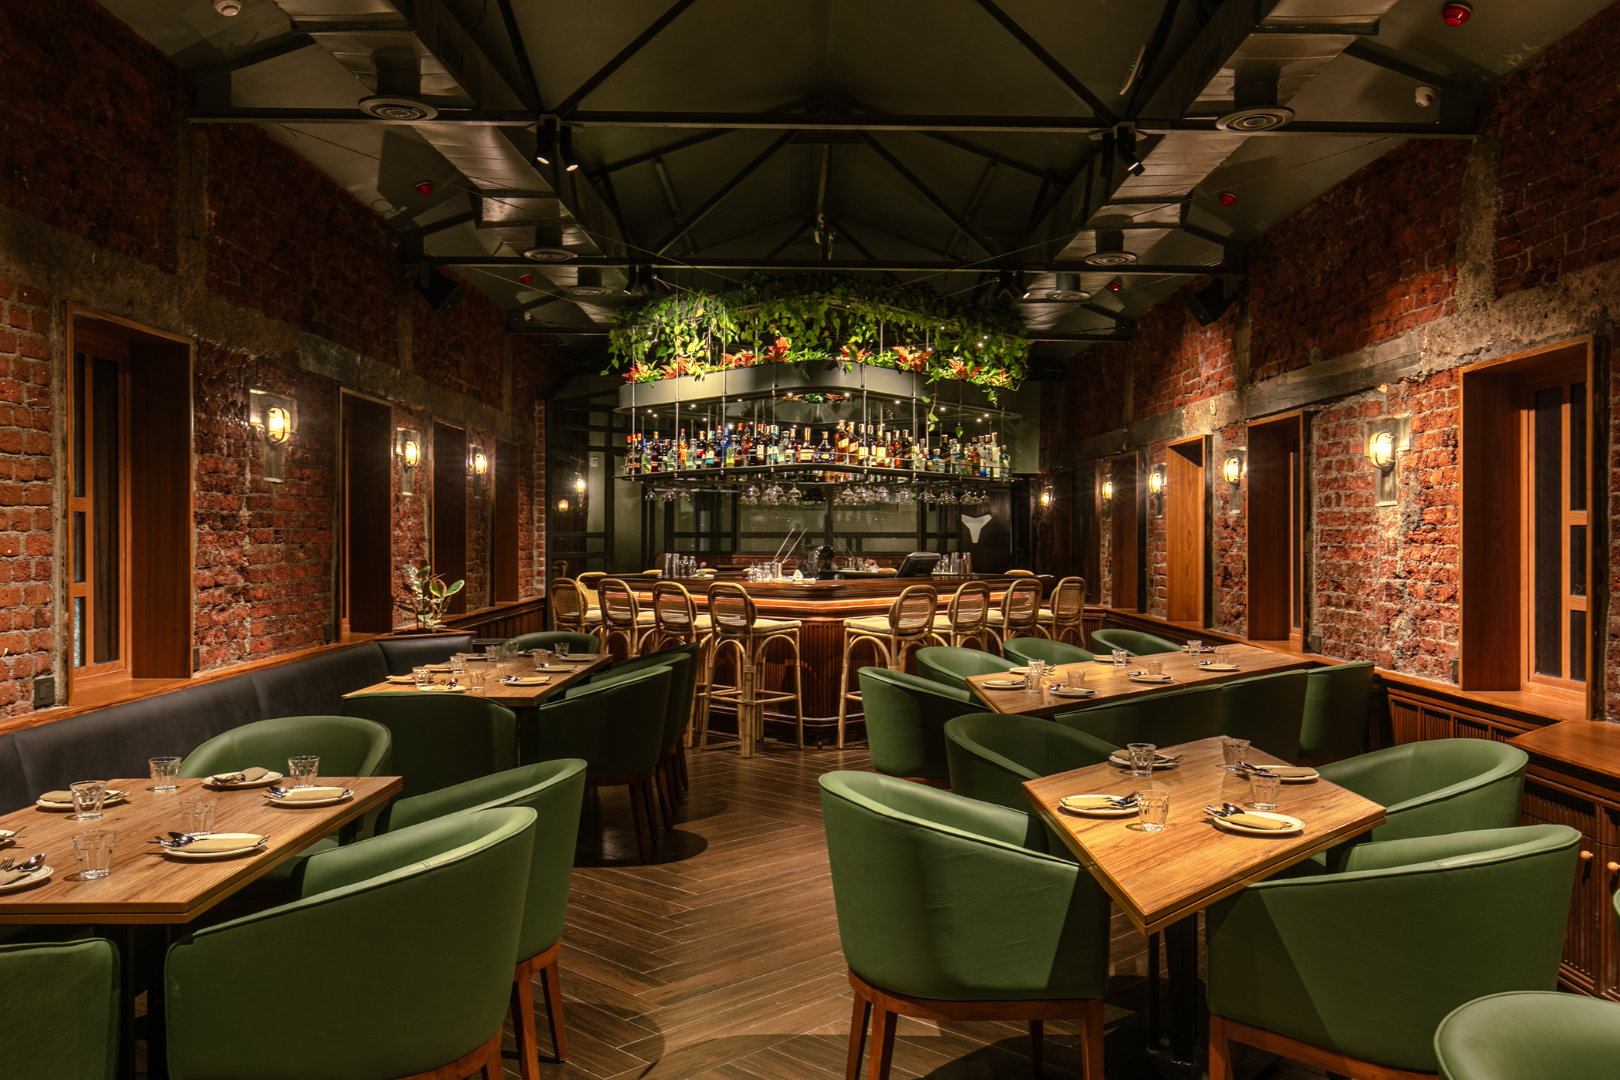
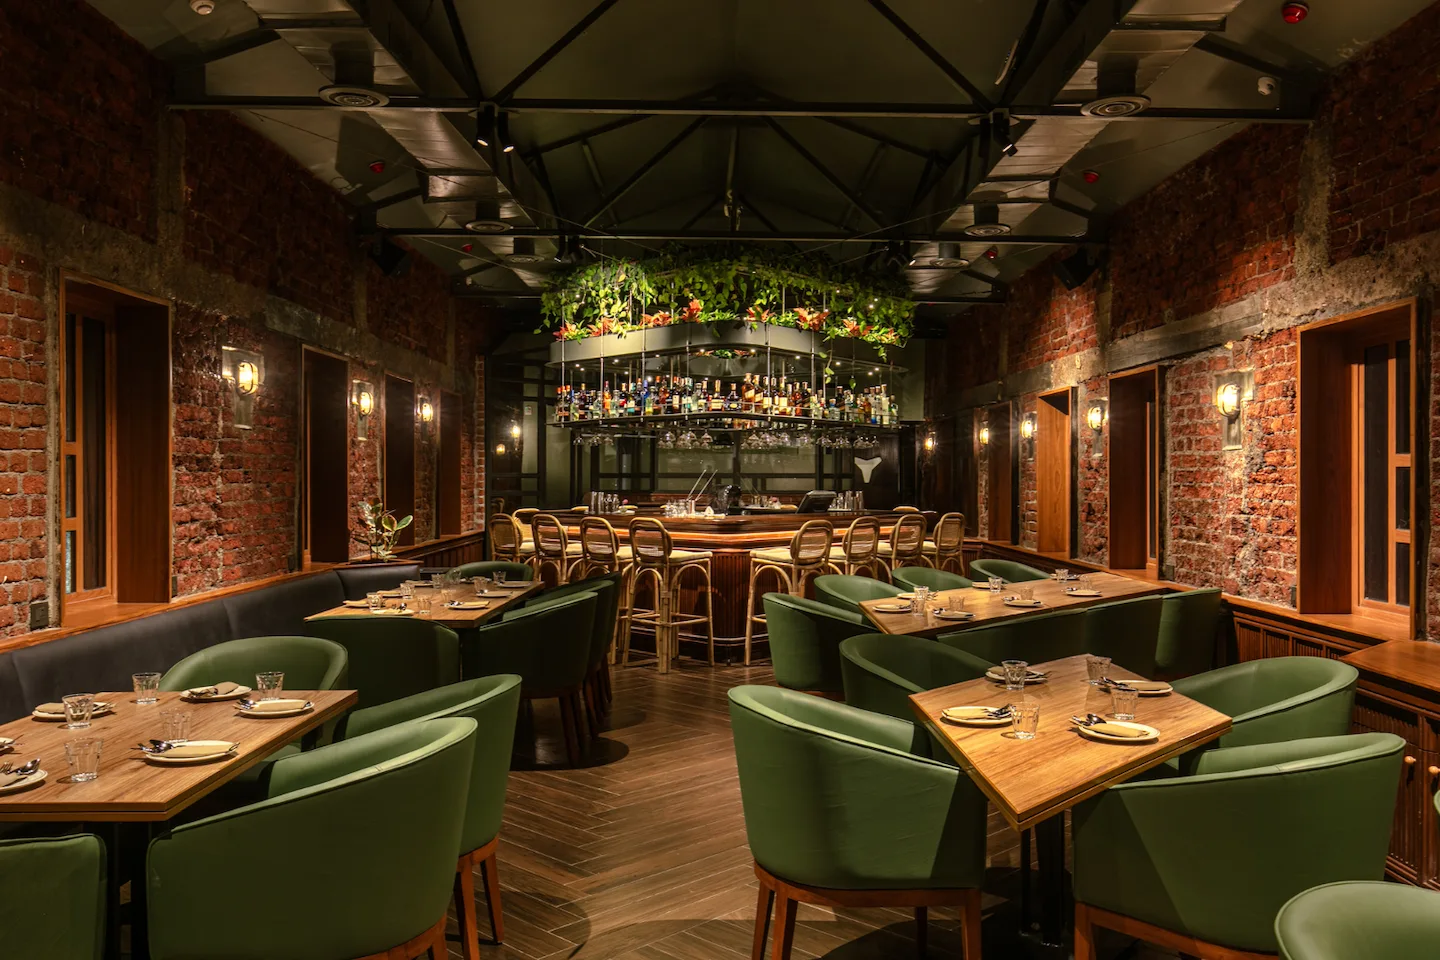
changing  image types to webp

diff --git a/client/src/components/Images.tsx b/client/src/components/Images.tsx
@@ -19,13 +19,13 @@ import starRating from "../assets/images/defaultImages/star.png";
 import reserveImg1 from "../assets/images/defaultImages/reserve1.png";
 import reserveImg2 from "../assets/images/defaultImages/reserve2.png";
 import reserveImg3 from "../assets/images/defaultImages/reserve3.png";
-import chiefImg1 from "../assets/images/chiefsImage/chief1.png";
+import chiefImg1 from "../assets/images/chiefsImage/chief1.webp";
 import chiefImg2 from "../assets/images/chiefsImage/chief2.png";
-import chiefImg3 from "../assets/images/chiefsImage/chief3.png";
+import chiefImg3 from "../assets/images/chiefsImage/chief3.webp";
 import chiefImg4 from "../assets/images/chiefsImage/chief4.jpg";
 import chiefImg5 from "../assets/images/chiefsImage/chief5.jpg";
-import chiefImg6 from "../assets/images/chiefsImage/chief6.png";
-import chiefImg7 from "../assets/images/chiefsImage/chief7.jpg";
+import chiefImg6 from "../assets/images/chiefsImage/chief6.webp";
+import chiefImg7 from "../assets/images/chiefsImage/chief7.webp";
 import chiefImg8 from "../assets/images/chiefsImage/chief8.webp";
 import chiefImg9 from "../assets/images/chiefsImage/chief9.webp";
 import chiefImg10 from "../assets/images/chiefsImage/chief10.avif";
@@ -54,7 +54,7 @@ import tokyoRestImg1 from "../assets/images/tokyoRestaurant/tokyo1.jpg";
 import tokyoRestImg2 from "../assets/images/tokyoRestaurant/tokyo2.jpg";
 import tokyoRestImg3 from "../assets/images/tokyoRestaurant/tokyo3.jpg";
 import tokyoRestImg4 from "../assets/images/tokyoRestaurant/tokyo4.webp";
-import regImg from "../assets/images/defaultImages/registration.png";
+import regImg from "../assets/images/defaultImages/registration.webp";
 import regImgMobile from "../assets/images/defaultImages/restaurantImageRegMobile.jpg";
 import loginPic from "../assets/images/defaultImages/loginP.jpg";
 import loginPic2 from "../assets/images/defaultImages/loginPic.jpg";
@@ -62,7 +62,7 @@ import restInfo1 from "../assets/images/defaultImages/restaurantInfo1.png";
 import restInfo2 from "../assets/images/defaultImages/restaurantInfo2.png";
 import restInfo3 from "../assets/images/defaultImages/restaurantInfo3.png";
 import reserveDate from "../assets/images/defaultImages/reserveDate.png";
-import burgerProfile from "../assets/images/defaultImages/burgerProfile.png";
+import burgerProfile from "../assets/images/defaultImages/burgerProfile.webp";
 export {
   logo,
   logo1,

diff --git a/server/src/middlewares/rateLimit.middleware.js b/server/src/middlewares/rateLimit.middleware.js
@@ -7,7 +7,7 @@ export const applimiter = rateLimit({
 });
 export const loginLimiter = rateLimit({
   windowMs: 15 * 60 * 1000,
-  max: 5,
+  max: 20,
   message: "Too many login attempts, try again later",
 });
 
